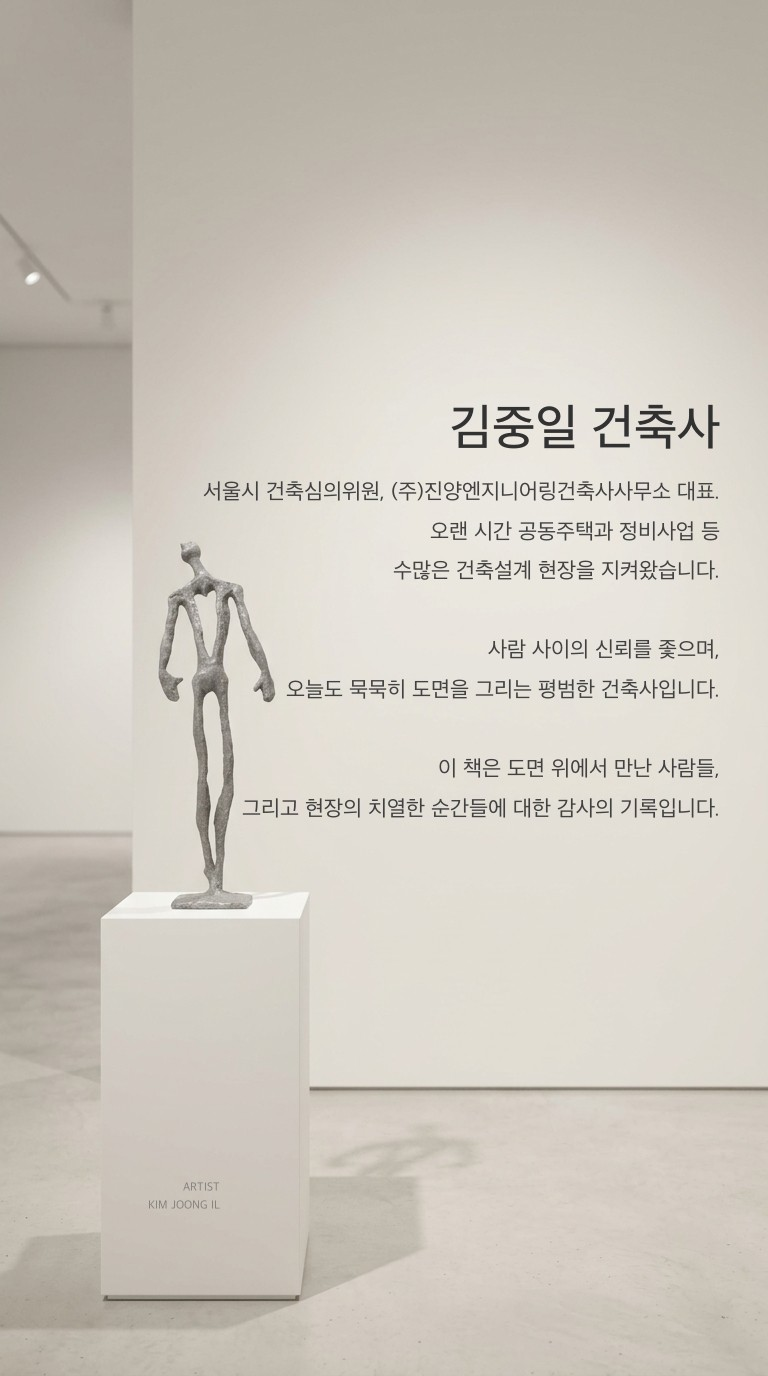
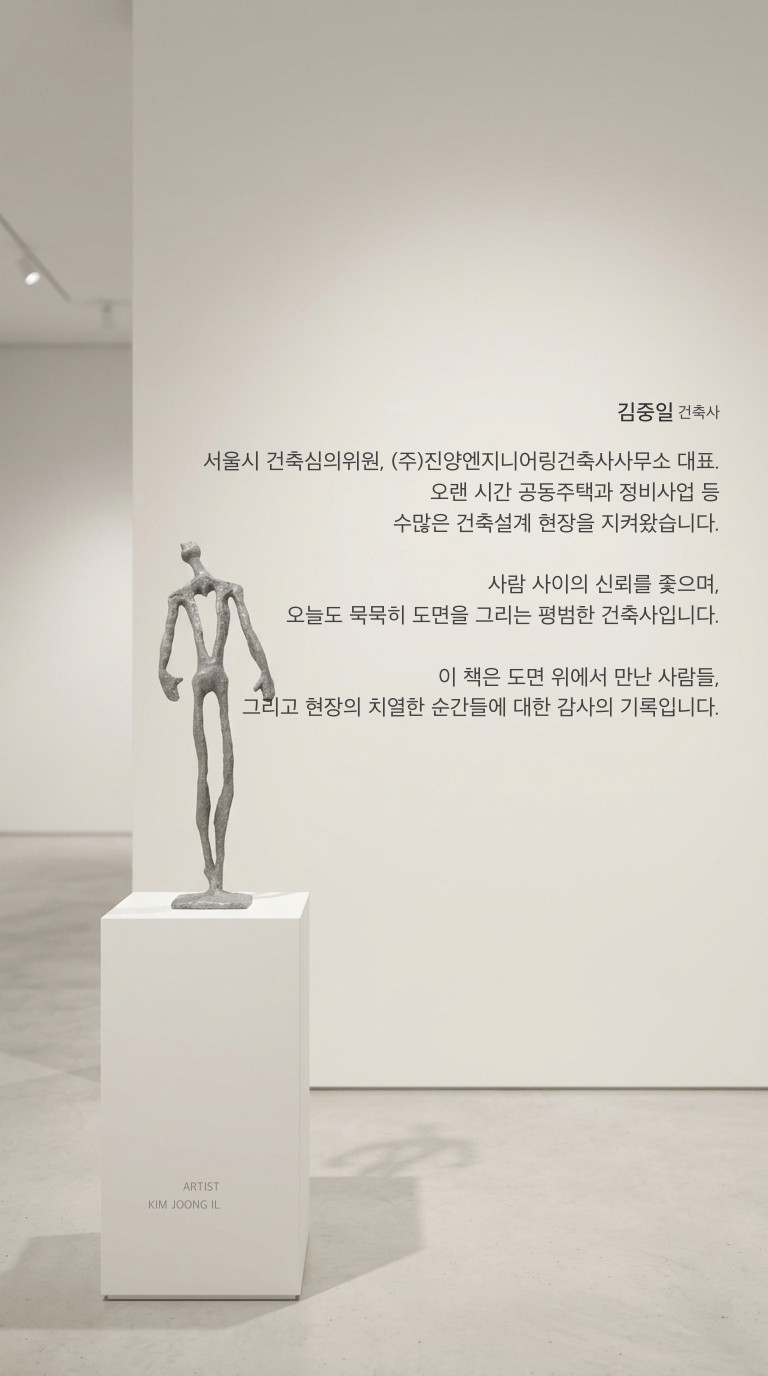
UI Polish: Rebaked the author profile image to reduce the author name size (matching the body text), shrink the '건축사' title, and tighten line spacing. Completely removed layout space for hidden HTML text on baked pages to fix scrolling/ghost space issues.

Changed region(s): [[0.3438, 0.2812, 0.9375, 0.5938], [0.3438, 0.5625, 0.4688, 0.5938], [0.2812, 0.3125, 0.3125, 0.375]]

diff --git a/index.html b/index.html
@@ -40,7 +40,7 @@
     <link rel="apple-touch-icon" href="static/images/01.jpg" />
     <link rel="icon" type="image/jpeg" href="static/images/01.jpg" />
 
-    <link rel="stylesheet" href="style.css?v=20242389" />
+    <link rel="stylesheet" href="style.css?v=20242390" />
     <link
       href="https://fonts.googleapis.com/css2?family=Nanum+Myeongjo:wght@400;700&display=swap"
       rel="stylesheet"
@@ -612,7 +612,7 @@
     </div>
     <div class="toc-overlay" onclick="closeTOC()"></div>
 
-    <script src="book_data.js?v=20242389"></script>
+    <script src="book_data.js?v=20242390"></script>
     <script>
       
       // --- 마스터 개선 로직 주입 ---
@@ -792,7 +792,7 @@ let currentChapter = 0;
           
           if (page.type === "cover") {
             // 단상 위에 글씨를 새기는 느낌의 HTML 요소 (모바일/데스크탑 반응형 절대 위치)
-            contentHTML += '<div class="pedestal-signature" style="position: absolute; bottom: 10%; left: 28%; transform: translateX(-50%); font-size: 7px; opacity: 0; pointer-events: none;">ARTIST<br>KIM JOONG IL</div>';
+            contentHTML += '<div class="pedestal-signature" style="display: none;">ARTIST<br>KIM JOONG IL</div>';
           }
           contentHTML += '<div class="' + (page.type === "cover" ? "cover-text-container" : "") + '" style="' + textContainerStyle + '">';
 
